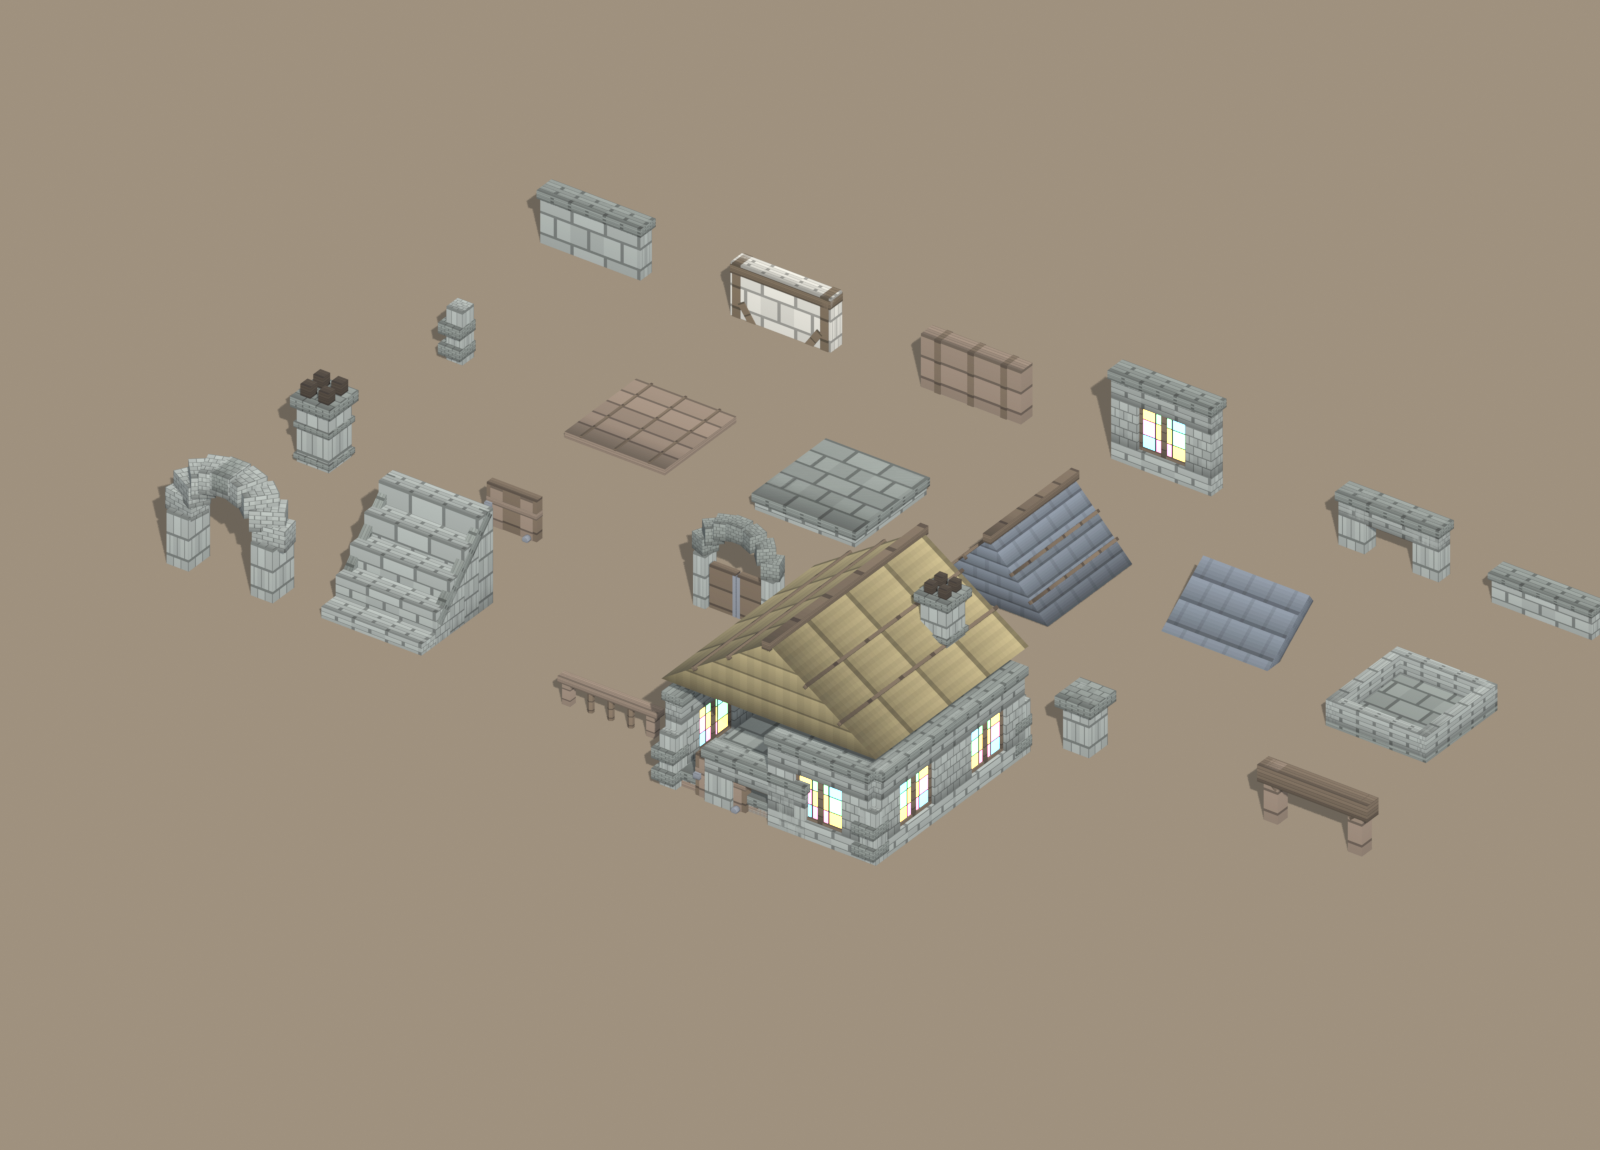
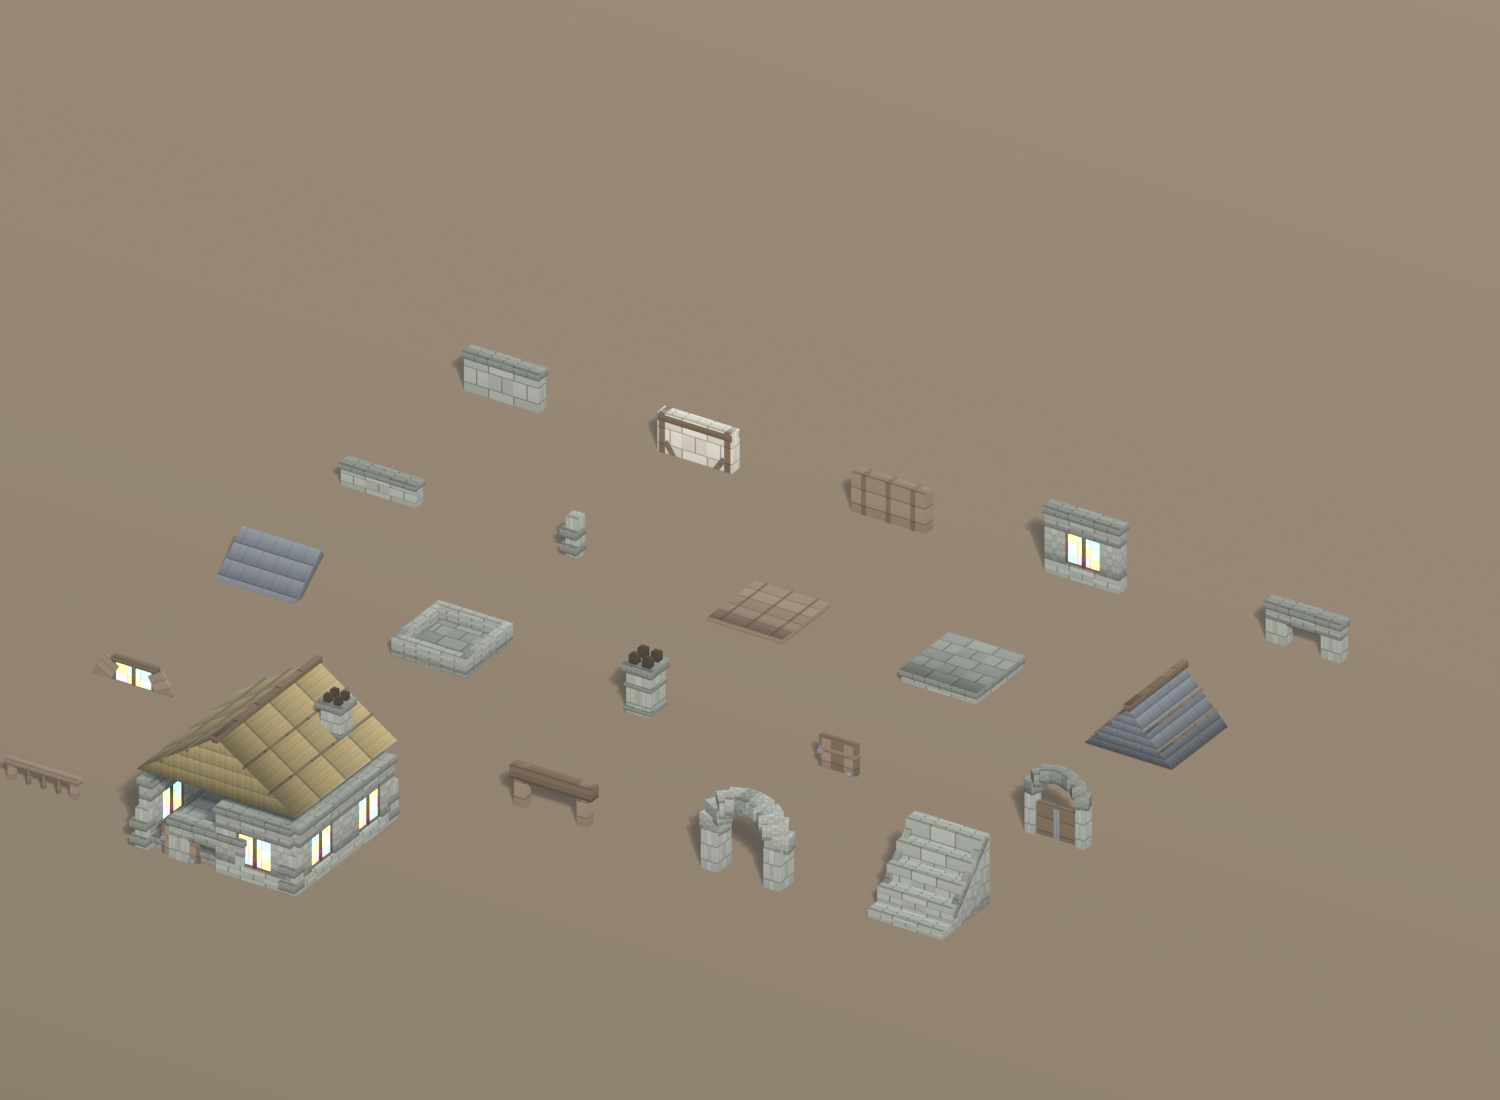
feat(pipeline): optional 3/4 catalog camera (HERO_VIEW) for vertical-parts kits
productize's catalog camera was top-down, which flattens vertical wall parts to
thin edges (I'd been hand-swapping a 3/4 render into the parts product). Added a
`view` arg to _render_catalog: "3q" frames a corner 3/4 ortho instead of the
top-down. productize reads `HERO_VIEW` off the spec; kit_parts_v1 sets it to "3q".
The parts kit now catalogs itself correctly — walls, openings, roofs and the
house_demo cottage all read. No behaviour change for the building/prop kits
(default stays top-down).

diff --git a/tools/asset_generators/village_kit/kit_pipeline.py b/tools/asset_generators/village_kit/kit_pipeline.py
@@ -64,7 +64,7 @@ def _load_spec(path: str):
     return mod
 
 
-def _render_catalog(scene, out_png: str, ortho: float, profile: dict) -> None:
+def _render_catalog(scene, out_png: str, ortho: float, profile: dict, view: str = "top") -> None:
     sun = bpy.data.objects.new("Sun", bpy.data.lights.new("Sun", "SUN"))
     scene.collection.objects.link(sun)
     sun.data.energy = profile["sun_energy"]
@@ -88,8 +88,15 @@ def _render_catalog(scene, out_png: str, ortho: float, profile: dict) -> None:
     scene.camera = cam
     cam.data.type = "ORTHO"
     cam.data.ortho_scale = ortho
-    cam.location = (0, -12, 16)
-    look = mathutils.Vector((0, 0, 0)) - mathutils.Vector(cam.location)
+    if view == "3q":
+        # corner 3/4 view — for kits whose pieces are vertical (walls/parts) and
+        # would read as thin edges from the default top-down camera.
+        cam.location = (ortho * 0.42, -ortho * 0.66, ortho * 0.5)
+        target = mathutils.Vector((0, 0, ortho * 0.06))
+    else:
+        cam.location = (0, -12, 16)
+        target = mathutils.Vector((0, 0, 0))
+    look = target - mathutils.Vector(cam.location)
     cam.rotation_euler = look.to_track_quat("-Z", "Y").to_euler()
     for engine in ("BLENDER_EEVEE_NEXT", "BLENDER_EEVEE"):
         try:

diff --git a/tools/asset_generators/village_kit/productize.py b/tools/asset_generators/village_kit/productize.py
@@ -147,7 +147,8 @@ def main() -> int:
 
     k.box([], 60, 60, 0.1, (0, 0, -0.06), profile["ground"])
     catalog = os.path.join(product_dir, "catalog.png")
-    _render_catalog(k.scene, catalog, max(12.0, cols * 2.6 + 4), profile)
+    view = getattr(spec, "HERO_VIEW", "top")   # "3q" for vertical parts kits
+    _render_catalog(k.scene, catalog, max(12.0, cols * 2.6 + 4), profile, view)
     _write_docs(product_dir, getattr(spec, "TITLE", name), aesthetic, names, atlas, avail)
 
     counts = {fmt: len(os.listdir(os.path.join(product_dir, f"models_{fmt}"))) for fmt in avail}

diff --git a/tools/asset_generators/village_kit/kit_parts_v1.py b/tools/asset_generators/village_kit/kit_parts_v1.py
@@ -13,4 +13,5 @@ from kit_parts import ALL_PARTS, house_demo  # noqa: E402
 
 TITLE = "GrimForge Modular Building Parts (22 pieces)"
 AESTHETIC = "medieval"
+HERO_VIEW = "3q"   # parts are vertical (walls) — catalog from a 3/4 corner, not top-down
 PIECES = ALL_PARTS + [("house_demo", house_demo)]
